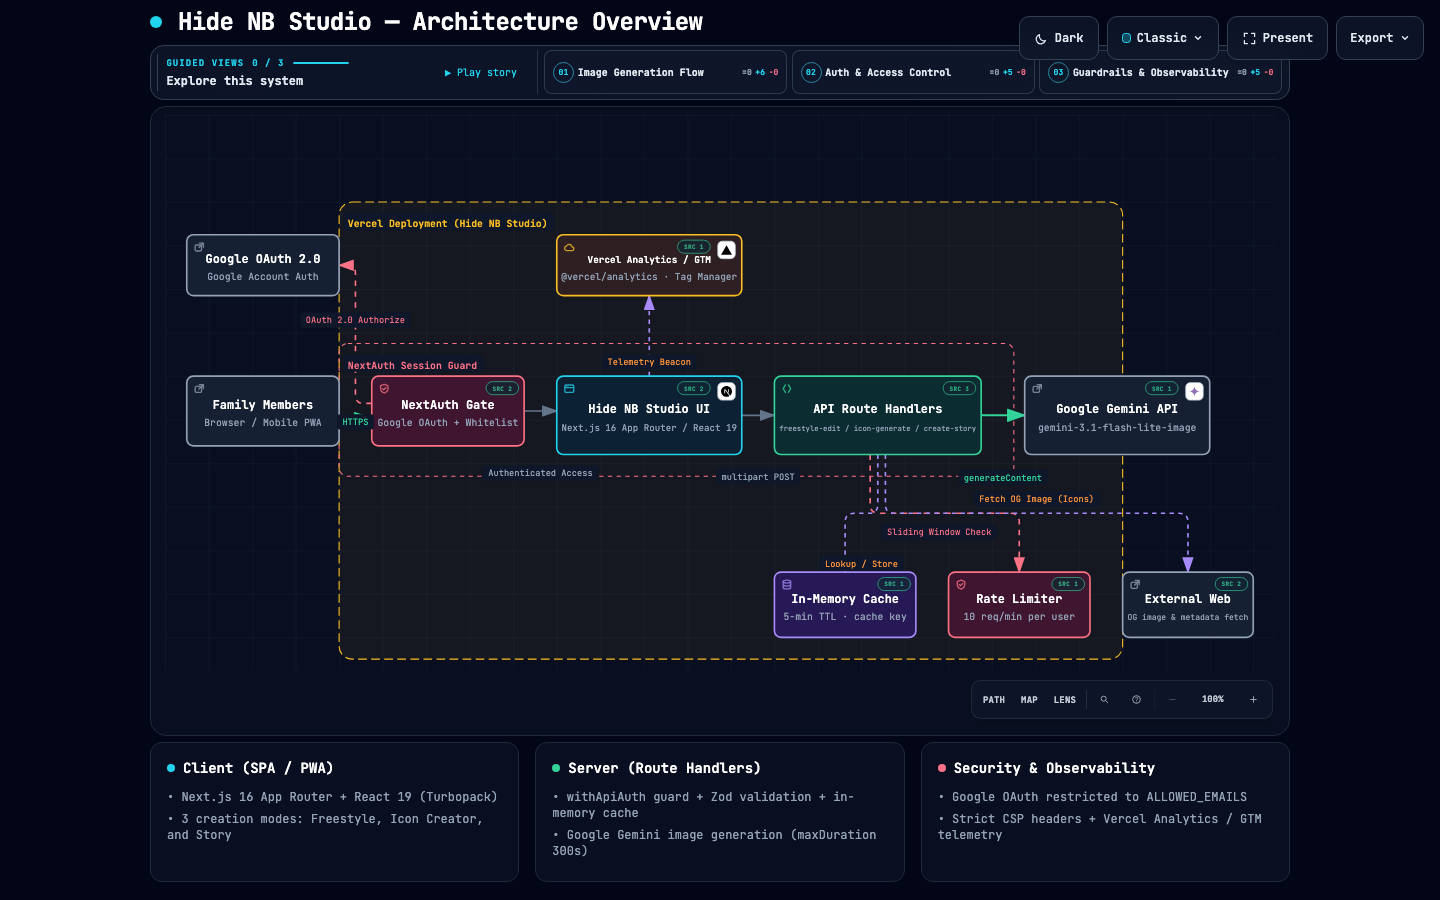
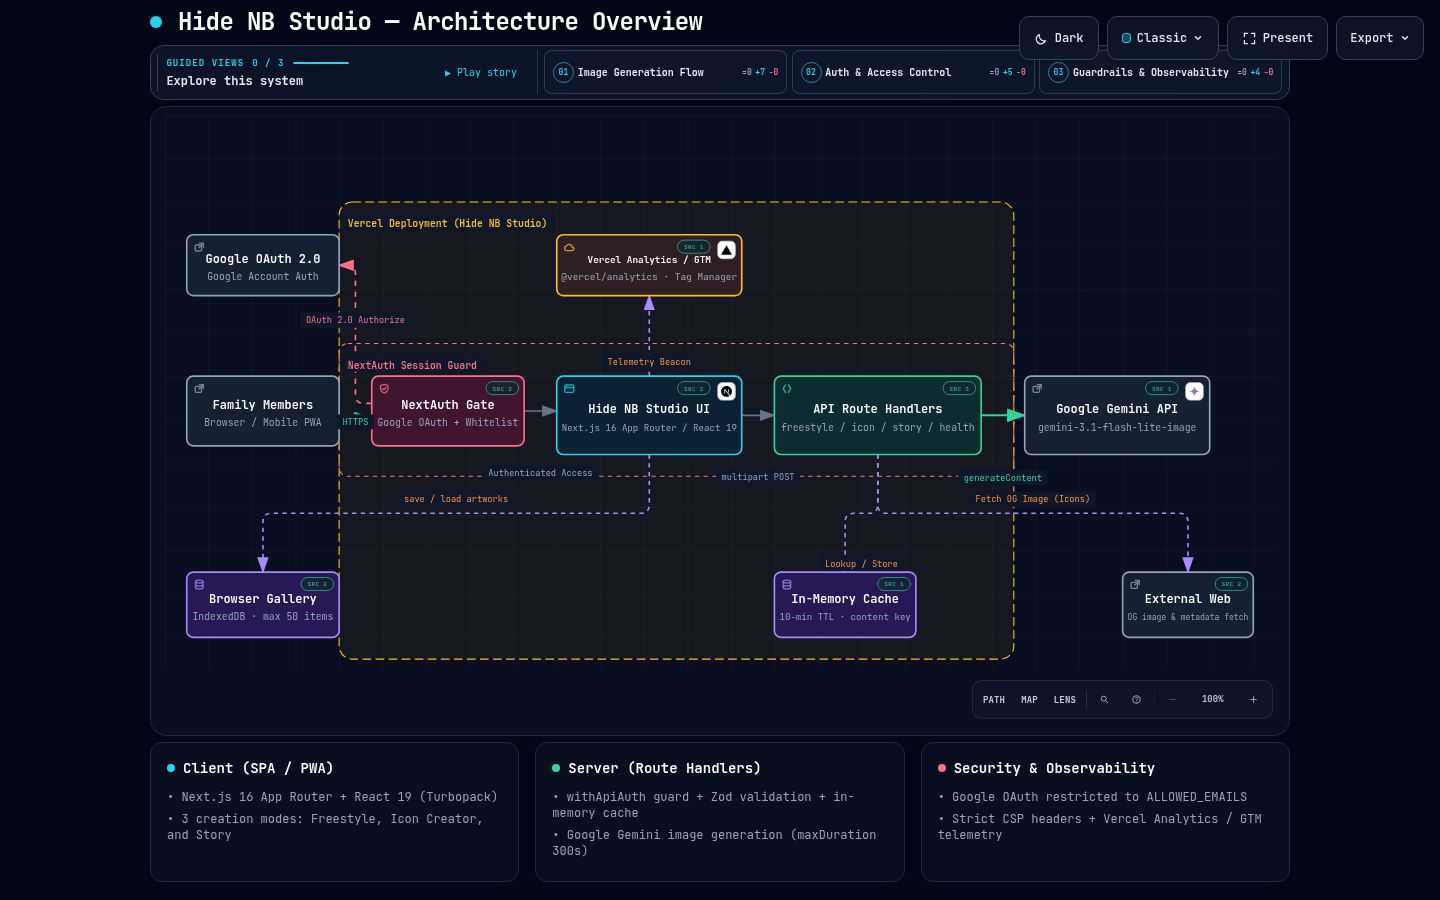
docs: refresh archify visual-check captures to match the current diagram
The four README screenshots and the visual-check receipt still came from the
2026-08-31 render, so they showed the removed Rate Limiter node and lacked the
Browser Gallery node that the 2026-09-17 regeneration added. Re-capture them
from the current hide-nb-studio.html and drop the now-obsolete README caveat.

diff --git a/README.md b/README.md
@@ -41,8 +41,6 @@ Interactive, project-wide architecture overview generated by [Archify](https://g
 
 ![Hide NB Studio architecture](docs/architecture/hide-nb-studio.visual-check.1440x900.light.png)
 
-> The specification and the interactive HTML were regenerated on 2026-09-17 against revision `f6c25a2`, which added the browser gallery and story nodes and dropped the rate limiter that no longer exists. The screenshots below still come from the 2026-08-31 render, so treat the interactive HTML (not the image) as the current architecture.
-
 ## API Routes
 
 The three generation routes are `POST` multipart handlers on the Node.js runtime. They all require an authenticated session (`src/utils/server/withApiAuth.ts`), validate their fields with Zod (`src/utils/server/validation.ts`), share the in-memory generation cache (`src/utils/server/cache.ts`), and declare `maxDuration = 300` so a slow Gemini render is not cut off.
